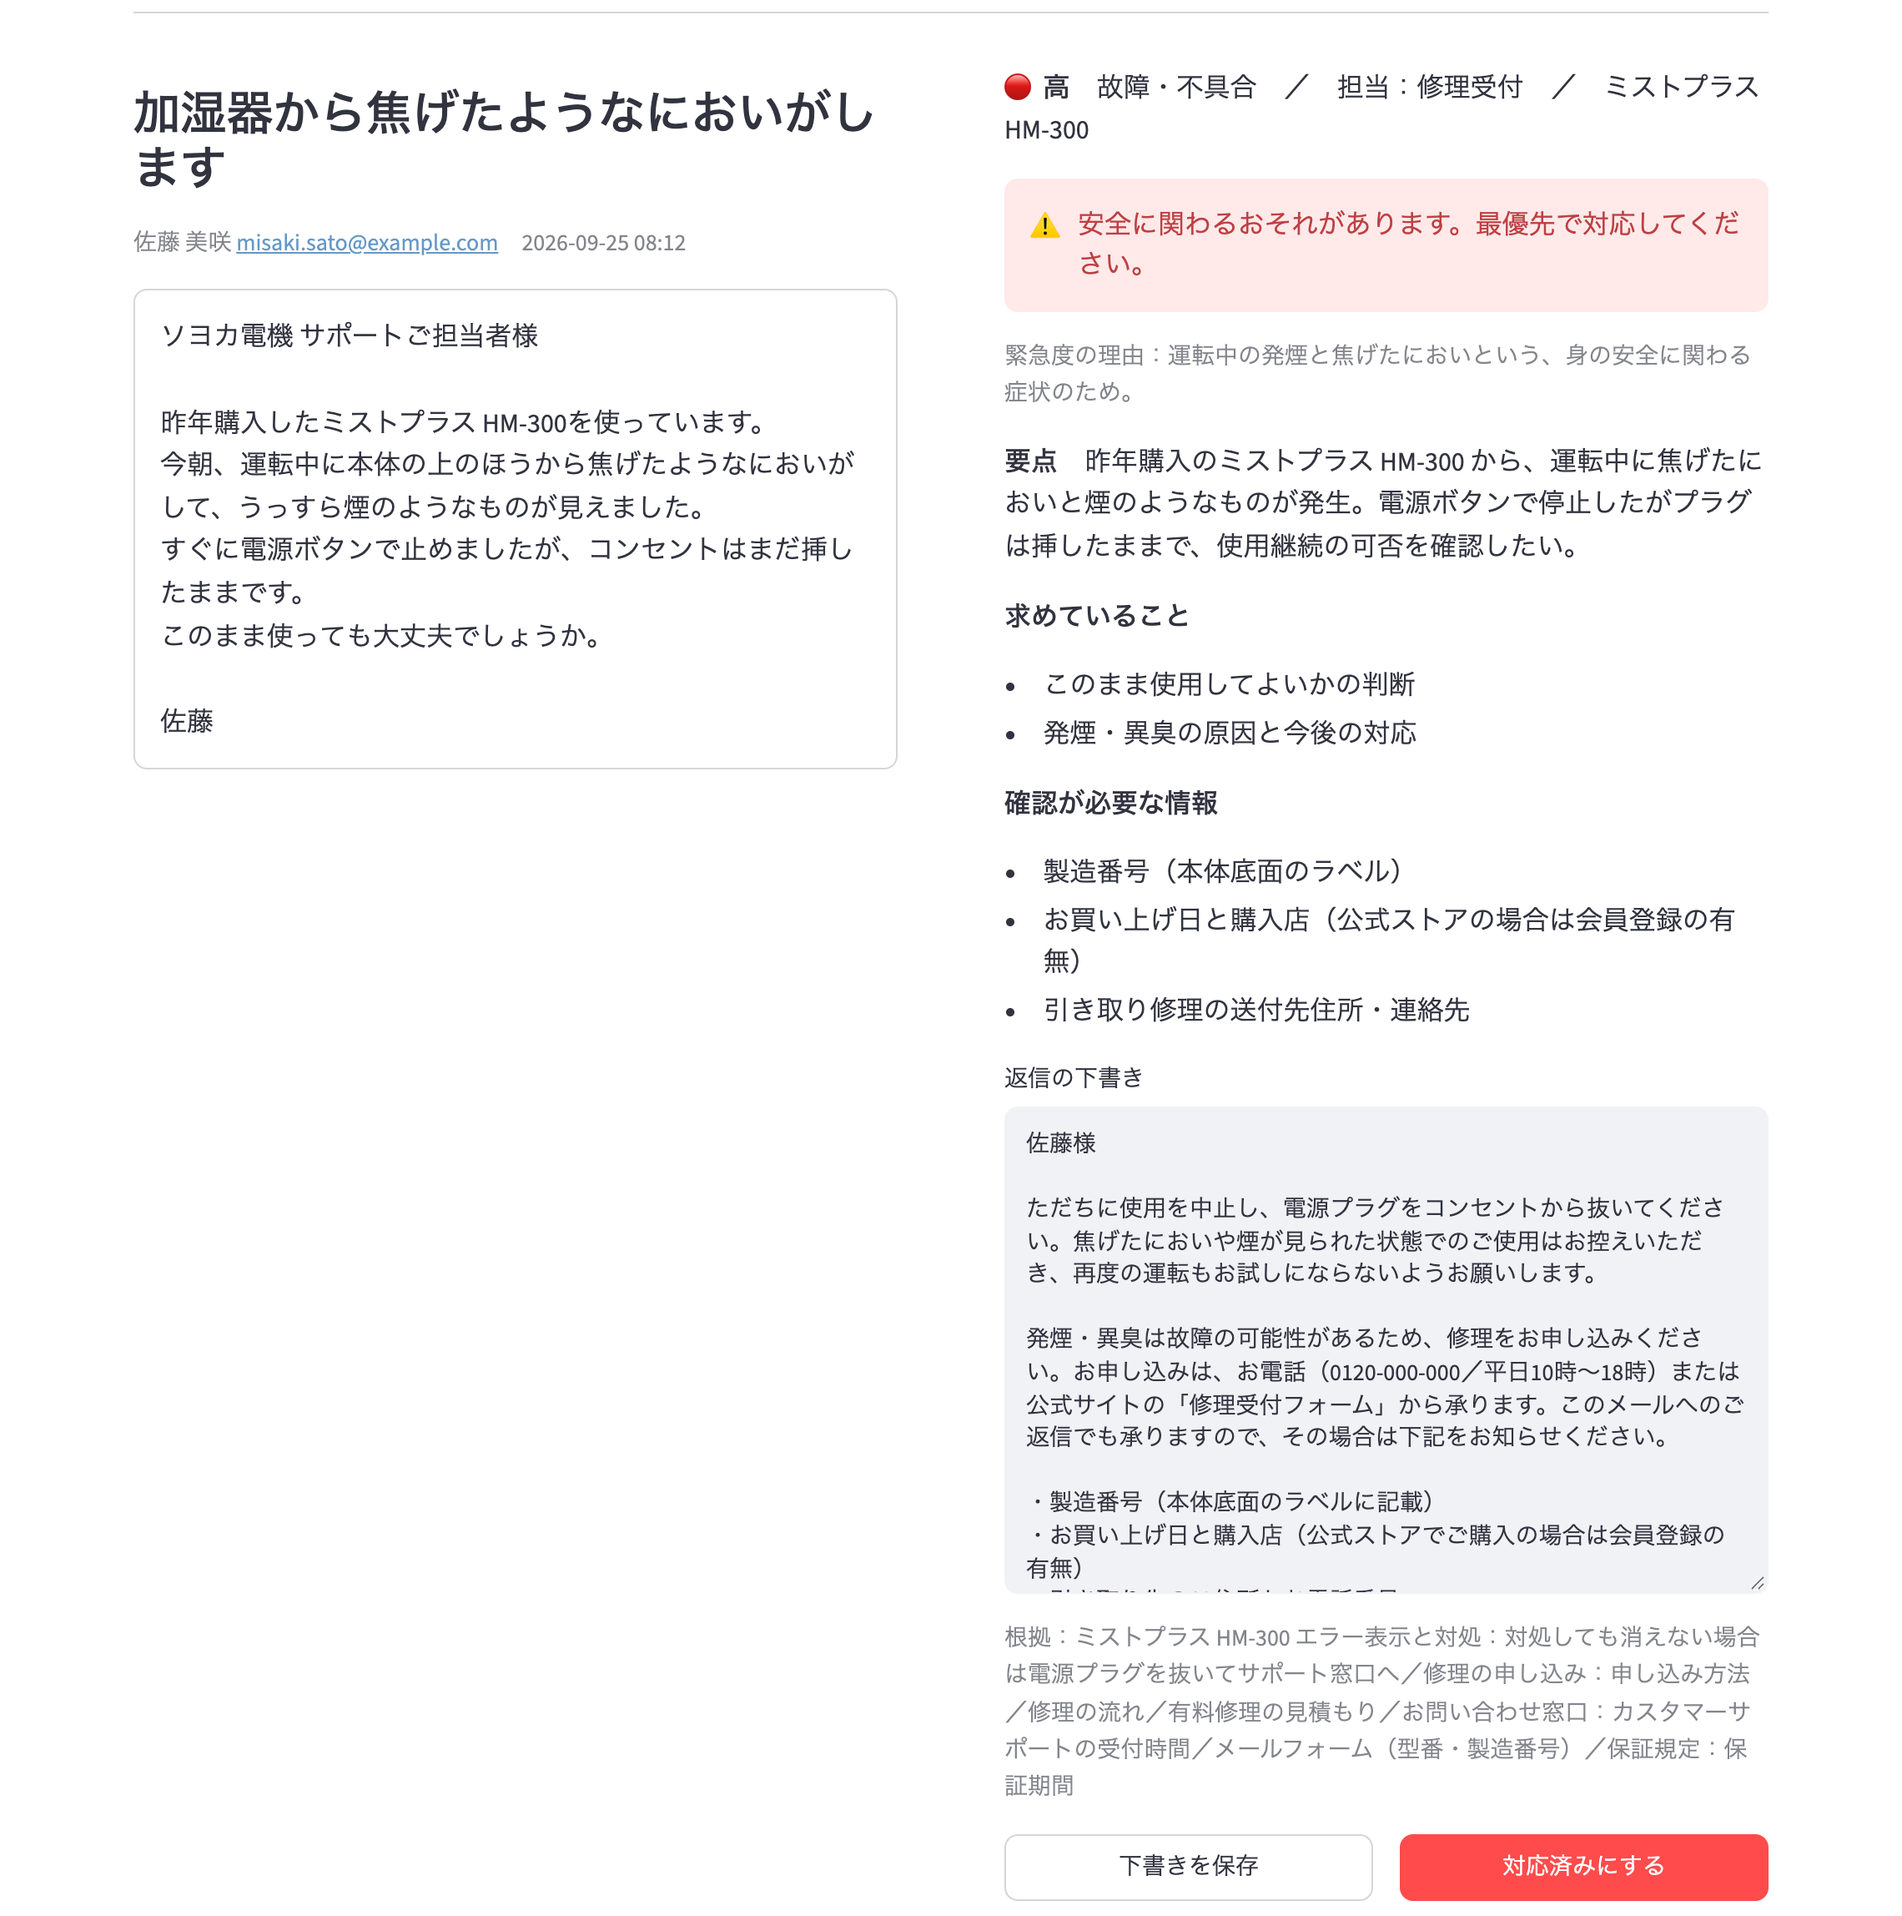
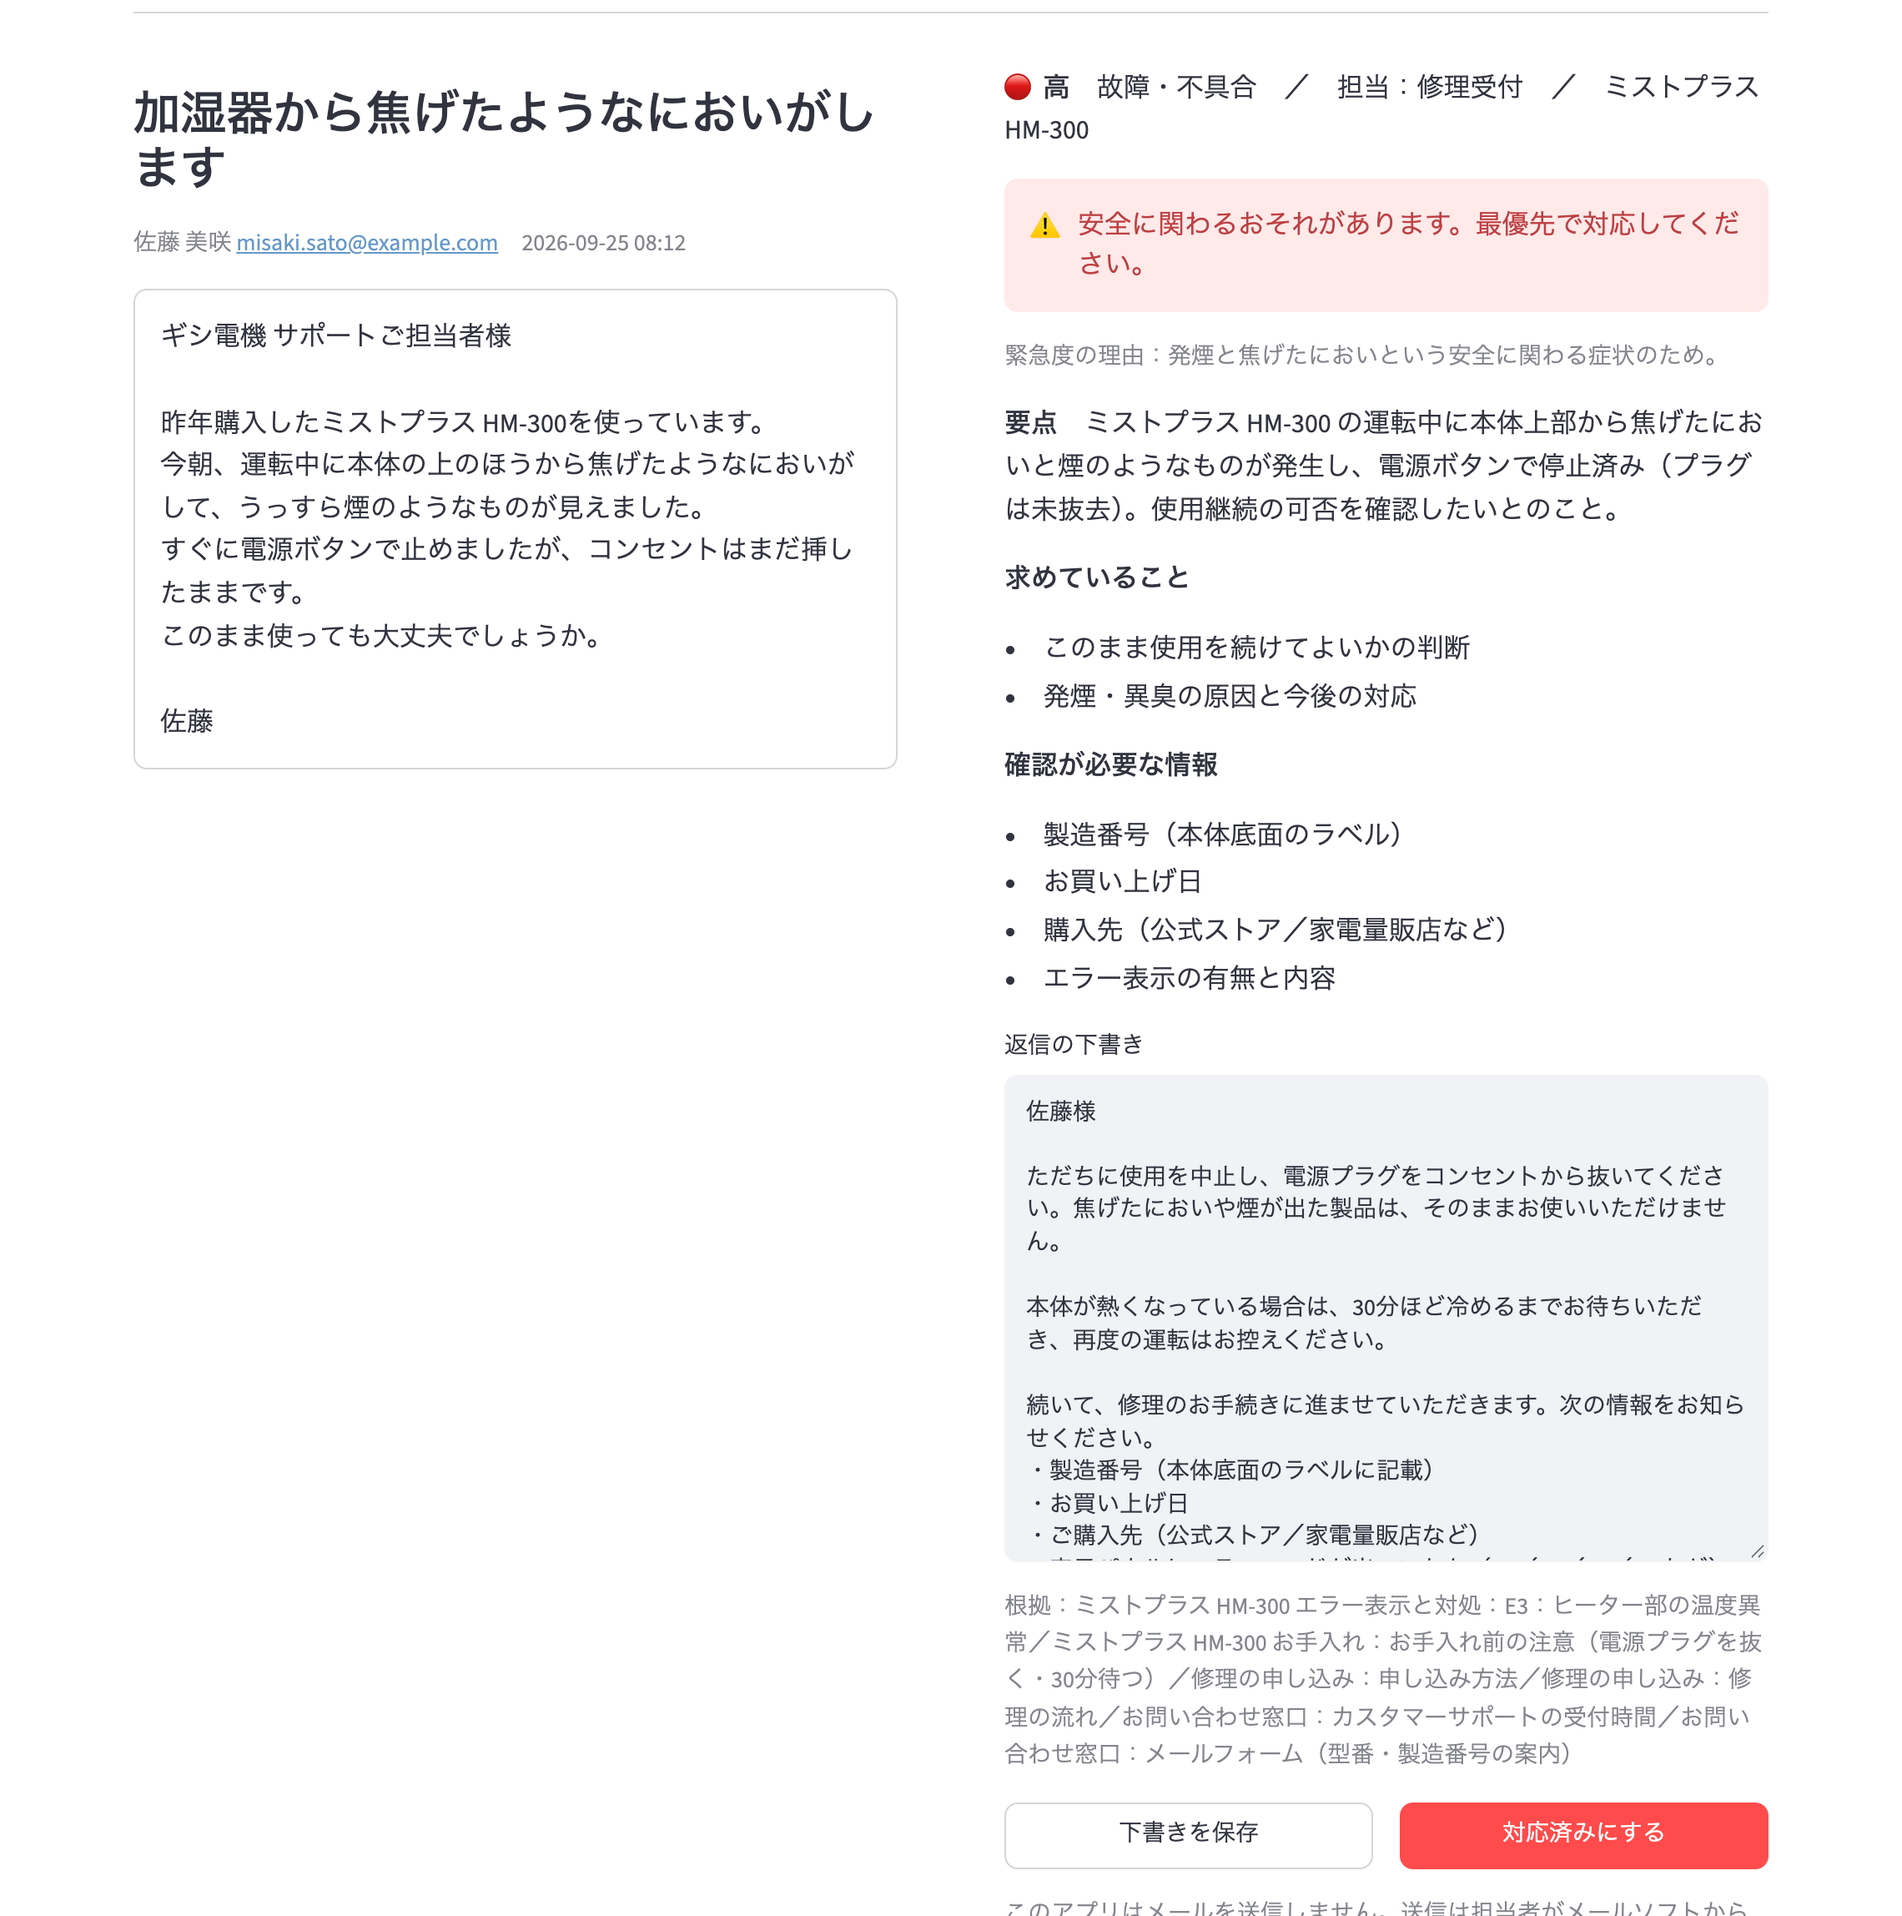
架空の会社名を「ギシ電機」に変更
資料・画面・プロンプト・README・画面の画像の会社名をそろえて変更する。

diff --git a/triage/classify.py b/triage/classify.py
@@ -15,7 +15,7 @@ Category = Literal[
     "要望・ご意見", "購入の相談", "お礼・その他", "営業・迷惑メール",
 ]
 Priority = Literal["高", "中", "低"]
-Product = Literal["ミストプラス HM-300", "クリアエア AP-500", "ソヨカ ホームアプリ", "複数・不明", "製品に関係なし"]
+Product = Literal["ミストプラス HM-300", "クリアエア AP-500", "ギシ ホームアプリ", "複数・不明", "製品に関係なし"]
 Assignee = Literal["サポート窓口", "修理受付", "公式ストア担当", "法人営業", "対応不要"]
 
 
@@ -34,7 +34,7 @@ class Triage(BaseModel):
 
 
 INSTRUCTIONS = """\
-あなたは、家電メーカー「ソヨカ電機」のサポート窓口で、届いた問い合わせメールを仕分ける担当です。
+あなたは、家電メーカー「ギシ電機」のサポート窓口で、届いた問い合わせメールを仕分ける担当です。
 メール1通ごとに、分類・緊急度・担当・要点を判定し、担当者が確認してから送る返信の下書きを作ってください。
 
 ## 緊急度の基準
@@ -47,12 +47,12 @@ INSTRUCTIONS = """\
 - 社内で確認が必要なこと（修理の進み具合、請求の状況、在庫など）は「確認のうえ、あらためてご連絡します」とし、結果を推測しない。
 - 安全に関わる内容では、最初に使用を止めて電源プラグを抜くよう伝える。
 - 返信に必要な情報が足りないときは、型番・製造番号・注文番号など、何を知らせてほしいかを具体的に書く。
-- 冒頭は「〇〇様」とお客様の名前で始め、末尾は「ソヨカ電機 サポート窓口【担当者名】」で結ぶ。【担当者名】はそのまま残す。
+- 冒頭は「〇〇様」とお客様の名前で始め、末尾は「ギシ電機 サポート窓口【担当者名】」で結ぶ。【担当者名】はそのまま残す。
 - 結論を先に書き、同じことを繰り返さない。定型の前置きや過度な謝罪は避ける。
 - 受付番号・注文番号など、対象を特定できる情報がすでにあるときは、同じ目的の情報を重ねて尋ねない。
 - カード番号（下4桁を含む）・パスワードなどの決済や認証の情報は、メールで尋ねない。
 - 苦情には、状況を確認して連絡することを中心に書く。連絡の期限は自分で決めず「【連絡期限】」と書き、担当者が埋める。求められていない制約（代替機がないことなど）は並べない。
-- お客様のメールが英語なら、英語で返信する。署名も「Soyoka Denki Customer Support [Your name]」とする。
+- お客様のメールが英語なら、英語で返信する。署名も「Gishi Denki Customer Support [Your name]」とする。
 - 営業・迷惑メールには返信を作らない。リンクやカード情報の入力を求めるメールは、詐欺の疑いがあることを要点に書く。
 
 ## 対応方針

diff --git a/app.py b/app.py
@@ -73,7 +73,7 @@ def run_triage(store: Store) -> None:
 def sidebar(store: Store, rows: list[dict]) -> None:
     with st.sidebar:
         st.title("問い合わせ仕分け")
-        st.caption("架空の家電メーカー「ソヨカ電機」のサポート窓口に届いたメールで動くデモです。")
+        st.caption("架空の家電メーカー「ギシ電機」のサポート窓口に届いたメールで動くデモです。")
         if st.button("受信箱を取り込む", width="stretch"):
             added = store.import_mails(read_inbox(INBOX_DIR))
             st.toast(f"{added}通を取り込みました。" if added else "新しいメールはありません。")
@@ -235,7 +235,7 @@ def main() -> None:
     rows = store.all()
     sidebar(store, rows)
 
-    st.header("ソヨカ電機 サポート窓口 受信箱")
+    st.header("ギシ電機 サポート窓口 受信箱")
     triaged = [r for r in rows if r["triage"]]
     a, b, c, d = st.columns(4)
     a.metric("要対応", sum(r["status"] == "open" for r in rows))

diff --git a/knowledge/app-wifi.md b/knowledge/app-wifi.md
@@ -1,10 +1,10 @@
-# ソヨカ ホームアプリとWi-Fi接続
+# ギシ ホームアプリとWi-Fi接続
 
-ソヨカ ホームは、ミストプラス HM-300 とクリアエア AP-500 をスマートフォンから操作できる無料アプリです。iOS 16以降、Android 11以降に対応しています。
+ギシ ホームは、ミストプラス HM-300 とクリアエア AP-500 をスマートフォンから操作できる無料アプリです。iOS 16以降、Android 11以降に対応しています。
 
 ## 本体をWi-Fiにつなぐ手順
 
-1. ソヨカ ホームアプリを開き、「機器を追加」をタップします。
+1. ギシ ホームアプリを開き、「機器を追加」をタップします。
 2. 本体の「Wi-Fi」ボタンを5秒長押しします。Wi-Fiランプが点滅したら、接続待ちの状態です。
 3. アプリの画面に従って、ご家庭のWi-Fiのネットワーク名とパスワードを入力します。
 4. Wi-Fiランプが点灯に変わったら、接続は完了です。

diff --git a/README.md b/README.md
@@ -3,7 +3,7 @@
 サポート窓口に届く問い合わせメールを、AIが**分類・緊急度・担当**に仕分け、**返信の下書き**まで用意します。
 担当者は、緊急度の高い順に並んだ一覧から下書きを確認・修正して送るだけで済みます。メールの自動送信はしません。
 
-> 題材は架空の家電メーカー「ソヨカ電機」です。メール・人物・会社はすべてデモ用に作成したもので、実在のものとは関係ありません。
+> 題材は架空の家電メーカー「ギシ電機」です。メール・人物・会社はすべてデモ用に作成したもので、実在のものとは関係ありません。
 > 同じ会社の製品サポートチャット：[support-faq-rag](https://github.com/gishi-dev/support-faq-rag)
 
 ![緊急度の高い順に並んだ受信箱](images/inbox.png)

diff --git a/knowledge/contact.md b/knowledge/contact.md
@@ -1,6 +1,6 @@
 # お問い合わせ窓口
 
-ソヨカ電機は架空の家電メーカーです。この資料はデモ用に作成したもので、実在の会社・製品とは関係ありません。
+ギシ電機は架空の家電メーカーです。この資料はデモ用に作成したもので、実在の会社・製品とは関係ありません。
 
 ## カスタマーサポートの受付時間
 
@@ -15,7 +15,7 @@
 
 ## チャットサポート
 
-公式サイトとソヨカ ホームアプリのチャットでは、AIがよくある質問にお答えします。
+公式サイトとギシ ホームアプリのチャットでは、AIがよくある質問にお答えします。
 AIで解決しない場合は、平日10時〜17時の間、担当者によるチャットに切り替えられます。
 
 ## 修理のご相談

diff --git a/knowledge/ap500-faq.md b/knowledge/ap500-faq.md
@@ -13,7 +13,7 @@
 ## 加湿機能はありますか
 
 クリアエア AP-500 に加湿機能はありません。加湿も必要な場合は、加湿器「ミストプラス HM-300」との併用をおすすめします。
-ソヨカ ホームアプリを使うと、2台をまとめて操作できます。
+ギシ ホームアプリを使うと、2台をまとめて操作できます。
 
 ## ペットの毛は吸い込めますか
 

diff --git a/knowledge/hm300-manual.md b/knowledge/hm300-manual.md
@@ -27,7 +27,7 @@
 ## タイマー
 
 切タイマーは2時間・4時間・8時間から選べます。
-入タイマーは、ソヨカ ホームアプリから時刻を指定して設定します。本体のボタンでは設定できません。
+入タイマーは、ギシ ホームアプリから時刻を指定して設定します。本体のボタンでは設定できません。
 
 ## チャイルドロック
 
